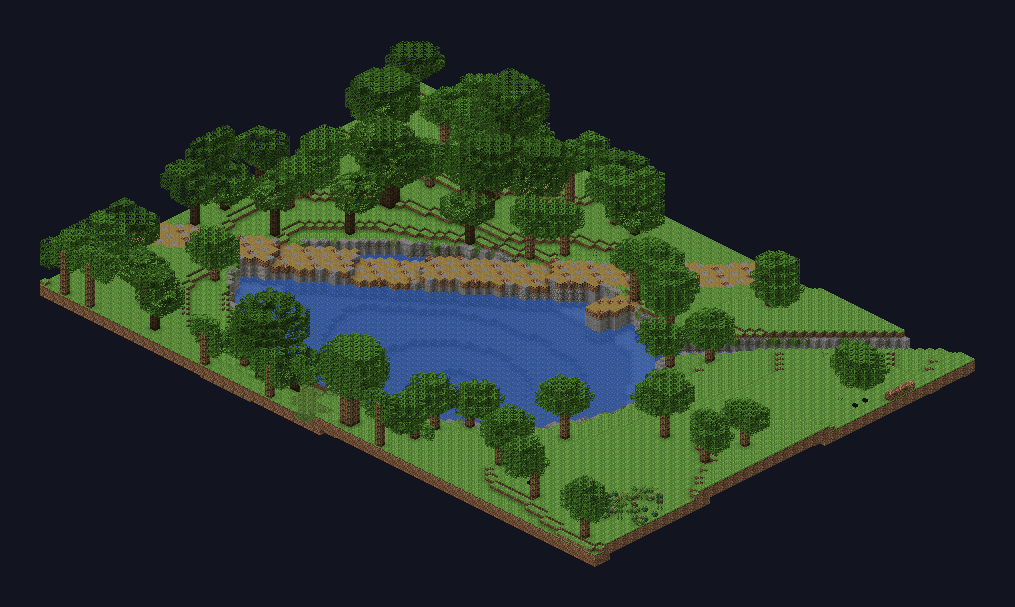
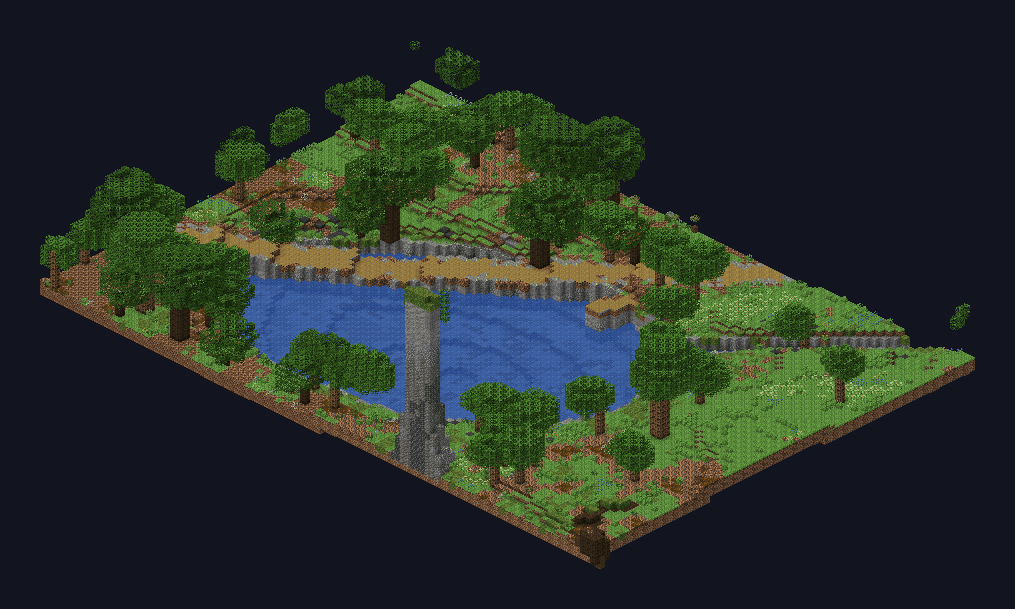
Proposals: field500 - WorldPainter-style materials (slope mixes in blobs, cliff gradients in vertical streaks, natural banks, clustered cover)

Changed region(s): [[0.0305, 0.0593, 0.9773, 0.9489], [0.9163, 0.5041, 0.9773, 0.5338]]

diff --git a/docs/proposals/world-prototype/field500/index.html b/docs/proposals/world-prototype/field500/index.html
@@ -1,0 +1,106 @@
+<title>巨樹の根の丘</title>
+<meta name="claude:viewport-fit-sides" content="cover">
+<link rel="stylesheet" href="https://fonts.googleapis.com/css2?family=M+PLUS+2:wght@400;700&family=DotGothic16&display=swap">
+<style>
+/* layout: a field journal — one large plate, tabs along the top, a short note under the plate */
+:root {
+  --bg: #e9ecdf; --panel: #f7f8f1; --ink: #1f2a1c; --muted: #5d6a57; --line: #c8cfbb; --accent: #b4462f;
+  --plate: #12141f;
+  --f-body: "M PLUS 2", "Hiragino Sans", "Noto Sans CJK JP", sans-serif;
+  --f-label: "DotGothic16", "M PLUS 2", monospace;
+}
+@media (prefers-color-scheme: dark) { :root:not([data-theme="light"]) {
+  --bg: #151a14; --panel: #1d241c; --ink: #e4ead9; --muted: #9aa78f; --line: #33402f; --accent: #e07257; color-scheme: dark } }
+:root[data-theme="dark"] {
+  --bg: #151a14; --panel: #1d241c; --ink: #e4ead9; --muted: #9aa78f; --line: #33402f; --accent: #e07257; color-scheme: dark }
+body { background: var(--bg); color: var(--ink); font-family: var(--f-body); line-height: 1.7;
+  padding-left: max(16px, env(safe-area-inset-left, 0px)); padding-right: max(16px, env(safe-area-inset-right, 0px)); padding-block: 20px 40px }
+.wrap { max-width: 1180px; margin: 0 auto; display: grid; gap: 14px }
+header h1 { font-family: var(--f-label); font-weight: 400; font-size: 1.9rem; margin: 0; letter-spacing: .04em; text-wrap: balance }
+header p { margin: 2px 0 0; color: var(--muted); font-size: .92rem }
+.tabs { display: flex; flex-wrap: wrap; gap: 6px }
+.tabs button { font: inherit; font-size: .9rem; padding: 6px 14px; border: 1px solid var(--line); background: var(--panel); color: var(--ink);
+  border-radius: 6px; cursor: pointer }
+.tabs button[aria-selected="true"] { background: var(--ink); color: var(--bg); border-color: var(--ink) }
+.tabs button:focus-visible { outline: 2px solid var(--accent); outline-offset: 2px }
+.plate { background: var(--plate); border-radius: 8px; overflow: hidden }
+.plate img { display: block; width: 100%; height: auto }
+.note { display: grid; grid-template-columns: minmax(0, 1fr) auto; gap: 12px; align-items: start; background: var(--panel);
+  border: 1px solid var(--line); border-radius: 8px; padding: 12px 16px }
+.note h2 { margin: 0; font-size: 1.05rem }
+.note p { margin: 4px 0 0; color: var(--muted); font-size: .92rem; max-width: 65ch }
+.lv { font-family: var(--f-label); font-size: .95rem; color: var(--accent); white-space: nowrap; padding-top: 2px }
+.rules { background: var(--panel); border: 1px solid var(--line); border-radius: 8px; padding: 14px 18px }
+.rules h2 { margin: 0 0 6px; font-size: 1.05rem }
+.rules ol { margin: 0; padding-left: 1.3em; display: grid; gap: 4px; font-size: .92rem }
+.rules .src { margin-top: 10px; font-size: .8rem; color: var(--muted); display: flex; flex-wrap: wrap; gap: 4px 12px }
+.rules a { color: var(--ink) }
+small.cap { color: var(--muted); font-size: .8rem }
+</style>
+<div class="wrap">
+  <header>
+    <h1>巨樹の根の丘</h1>
+    <p>500×500 ブロックのフィールド1枚。高さの違う3段を道でつなぎ、ガウル平原風の岩の柱と桜のボスがある。今回は WorldPainter の地形の作り方を調べて、地面と崖のブロックを作り直した。</p>
+  </header>
+  <div class="tabs" role="tablist" id="tabs"></div>
+  <div class="plate"><img id="plate" alt=""></div>
+  <div class="note"><div><h2 id="n-title"></h2><p id="n-text"></p></div><div class="lv" id="n-lv"></div></div>
+  <section class="rules">
+    <h2>WorldPainter の作り方から取った決まり</h2>
+    <ol>
+      <li>地面の材料は傾きで決める。平地は草の混ぜ物、25〜45°は「丘」の混ぜ物（草・粗い土・石・安山岩・砂利＝3:3:3:2:1）、45°より急なら「岩」の混ぜ物（石65・安山岩10・丸石5.5・灰色の粉5・砂利4・土2・鉱石と苔石を少し）。</li>
+      <li>混ぜ物は1ブロックずつばらまかず、かたまり（ブロブ）で置く。境目だけ少しまだらにして、2つの地面がなじむようにする。</li>
+      <li>森の床は別の混ぜ物（ポドゾル・粗い土・草・苔）。水のそばは苔・草・泥。</li>
+      <li>崖は、上と外側に明るい石（石・安山岩）、真ん中につなぎの石（砂利・凝灰岩・丸石）、下とくぼみに暗い石（深層岩）。横じまにせず、縦の不規則なすじにする。苔は上のふちから水が伝うように縦に垂らす。</li>
+      <li>水辺は草を水ぎわまで残し、砂の帯を作らない。底は砂利と粘土。道は中央が踏み固めた土、縁ほど砂利と粗い土。</li>
+      <li>草花は全体に薄くまかず、草はかたまり、花は1種類ずつの群れ、森の中は羊歯。丘には苔むした小石を少し。</li>
+    </ol>
+    <div class="src">
+      <a href="https://polystruct.github.io/creative/worldpainter/custom.html" target="_blank" rel="noopener">WorldPainter カスタム地形の例（配合）</a>
+      <a href="https://www.worldpainter.net/trac/wiki/Manual/Paints/Terrains" target="_blank" rel="noopener">WorldPainter 公式マニュアル（地形）</a>
+      <a href="https://hypixel.net/threads/guide-advanced-terraforming-part-2-world-painter.137630/" target="_blank" rel="noopener">Hypixel 上級地形ガイド（傾き55°で石）</a>
+      <a href="https://minecraftgradient.blog/deepslate-to-stone-gradient/" target="_blank" rel="noopener">崖のグラデーション（縦のすじ）</a>
+      <a href="https://blockblend.app/guides/minecraft-terrain-gradients" target="_blank" rel="noopener">地形のグラデーション配合</a>
+      <a href="https://www.minecraft.net/en-us/article/tutorial--tips-for-landscaping-and-terraforming" target="_blank" rel="noopener">minecraft.net 造園と地形のコツ（水辺）</a>
+    </div>
+  </section>
+  <small class="cap">ゲームの外で、本物のブロックの絵を使って描いた試作。モブは形と色だけの仮置き。</small>
+</div>
+<script>
+const SHOTS = [
+  { id: "scarp", tab: "崖の肌（新）", img: "f5-scarp.png", title: "崖の肌：下が暗く上が明るい、縦のすじ", text: "段の崖。下とくぼみは深層岩・凝灰岩、上は安山岩・石。縦にすじが入り、横じまにならない。ふちから苔と草が少し垂れる。足元の草地は草のかたまりと、1種類ずつの花の群れ。", lv: "新" },
+  { id: "ramp", tab: "崖と坂（新）", img: "f5-ramp.png", title: "段と坂（新しい材料）", text: "同じ場所の前の版は次のタブ。草地に草のかたまりと花の群れ、道は中央が土で縁が砂利と粗い土、崖は暗い下から明るい上へ。", lv: "新" },
+  { id: "ramp0", tab: "崖と坂（前）", img: "before-ramp.png", title: "段と坂（前の版）", text: "前の版。地面は草ばかりで、崖は石の横じま。", lv: "前" },
+  { id: "gap", tab: "中段（新）", img: "f5-gap.png", title: "中段の一角（新しい材料）", text: "草地は草・粗い土・苔のかたまり、森の近くはポドゾルと羊歯。", lv: "新" },
+  { id: "gap0", tab: "中段（前）", img: "before-gap.png", title: "中段の一角（前の版）", text: "前の版。", lv: "前" },
+  { id: "pond", tab: "池（新）", img: "f5-pond.png", title: "池（新しい材料）", text: "水ぎわは苔・草・泥、底は砂利と粘土。砂の帯をやめた。", lv: "新" },
+  { id: "pond0", tab: "池（前）", img: "before-pond.png", title: "池（前の版）", text: "前の版。水ぎわに砂の帯がある。", lv: "前" },
+  { id: "mesa", tab: "柱の肌（新）", img: "f5-mesa.png", title: "岩の柱の肌（新しい材料）", text: "柱のくびれは影になるので暗い石、上の張り出しは明るい石。苔はふちから縦に垂れる。", lv: "新" },
+  { id: "spring1", tab: "柱の泉（新）", img: "f5-pillar1.png", title: "柱の泉と滝（新しい材料）", text: "前の版は次のタブ。", lv: "新" },
+  { id: "spring0", tab: "柱の泉（前）", img: "before-pillar1.png", title: "柱の泉と滝（前の版）", text: "前の版。", lv: "前" },
+  { id: "all", tab: "全体", img: "field500-guide.png", title: "全体の案内図", text: "南の低地・中央の中段・北の高台の3段。岩の柱を岩の橋で渡るほど桜が増え、いちばん高い柱が桜のボス。", lv: "500×500" },
+  { id: "pillars", tab: "岩の柱と桜", img: "f5-pillars.png", title: "岩の柱と桜のグラデーション", text: "高台から岩の橋で柱を渡っていくほど桜と鳥居が増える。", lv: "道" },
+  { id: "boss", tab: "ワールドボス（桜）", img: "f5-sakura.png", title: "ワールドボス：桜の闘技場", text: "いちばん高い柱の上。鳥居のトンネルと石灯籠の参道、花びらの床、奥に大きなしだれ桜。", lv: "ボス" },
+  { id: "check", tab: "検証", img: "field500-check.png", title: "検証：歩いて行けるか、空白がないか", text: "平地の99.6%と、柱の上と橋の全部（16777マス）に歩いて行ける。", lv: "検証" },
+];
+const tabs = document.getElementById("tabs");
+function show(id) {
+  const s = SHOTS.find(x => x.id === id) || SHOTS[0];
+  document.getElementById("plate").src = s.img;
+  document.getElementById("plate").alt = s.title;
+  document.getElementById("n-title").textContent = s.title;
+  document.getElementById("n-text").textContent = s.text;
+  document.getElementById("n-lv").textContent = s.lv;
+  for (const b of tabs.children) b.setAttribute("aria-selected", String(b.dataset.id === s.id));
+  try { localStorage.setItem("f5tab", s.id) } catch (e) {}
+}
+for (const s of SHOTS) {
+  const b = document.createElement("button");
+  b.id = "tab-" + s.id; b.dataset.id = s.id; b.role = "tab"; b.textContent = s.tab;
+  b.addEventListener("click", () => show(s.id));
+  tabs.appendChild(b);
+}
+let start = (location.hash || "").slice(1);
+if (!start) { try { start = localStorage.getItem("f5tab") || "" } catch (e) {} }
+show(start || "scarp");
+</script>

diff --git a/scripts/world_prototype/field500.py b/scripts/world_prototype/field500.py
@@ -17,7 +17,8 @@ import numpy as np
 from PIL import Image
 import iso
 import greattree
-from greattree import noise3, bark
+from greattree import noise3, bark, _h
+import terrainmat as TM
 
 B = 500
 G = 70
@@ -180,39 +181,61 @@ def mark(x0, z0, x1, z1):
 
 
 patch = fbm(4, 20, .55, 11)
+import terrainmat as TM
+# context fields for the surface rules: forest-ness (where trees will stand), damp ground (near water), local face extent
+_forest = fbm(4, 6, .5, 121)
+FOREST_F = np.clip((_forest - .48) * 2 + np.clip((150 - xx) / 120, 0, 1) * .8 + np.clip((60 - zz) / 60, 0, 1) * .5, 0, 1)
+_wd = np.minimum(np.where(lake, 0, 99), st_d)
+for _ in range(1):
+    pass
+DAMP_F = np.clip(1 - (_wd - 2) / 6, 0, 1)
+pondd = np.sqrt(((xx - POND[0]) / 36) ** 2 + ((zz - POND[1]) / 24) ** 2)
+DAMP_F = np.maximum(DAMP_F, np.clip((1.25 - pondd) / .25, 0, 1))
+from numpy.lib.stride_tricks import sliding_window_view as _sw
+_pad = np.pad(hi, 4, mode="edge")
+LOCAL_MIN = _sw(_pad, (9, 9)).min(axis=(2, 3)); LOCAL_MAX = _sw(_pad, (9, 9)).max(axis=(2, 3))
+_pad1 = np.pad(H, 2, mode="edge")
+LOCAL_AVG = _sw(_pad1, (5, 5)).mean(axis=(2, 3))
 for z in range(B):
     for x in range(B):
         h = hi[z, x]
         nb = min(hi[max(0, z - 1), x], hi[min(B - 1, z + 1), x], hi[z, max(0, x - 1)], hi[z, min(B - 1, x + 1)])
         lo = h - 6 if x in (0, B - 1) or z in (0, B - 1) else min(nb, h) - 1
         face = slope[z, x] > 1.3
+        fb, ft = LOCAL_MIN[z, x], max(LOCAL_MAX[z, x], LOCAL_MIN[z, x] + 1)
+        recess = float(np.clip((LOCAL_AVG[z, x] - H[z, x]) / 3, 0, 1))
         for y in range(lo, h):
-            if face:
-                put(x, y, z, ("stone", "andesite", "stone", "tuff", "stone", "cobblestone")[(y // 2 + (x // 9)) % 6])
+            if face or h - y > 2:
+                put(x, y, z, TM.cliff_block(x, y, z, (y - fb) / (ft - fb), recess))
             else:
-                put(x, y, z, "dirt" if h - y <= 2 else "stone")
+                put(x, y, z, "coarse_dirt" if (h - y == 2 and _h(x, y, z, 5) < .3) else "dirt")
         if lake[z, x]:
-            put(x, h, z, "sand" if WL - h < 2 else "gravel")
+            put(x, h, z, TM.bed_block(x, z) if WL - h >= 1 else "grass_block_top", "grass_block_side")
             for y in range(h + 1, WL + 1): put(x, y, z, "water_still", shape="water")
             continue
         if stream[z, x]:
-            put(x, h - 1, z, "gravel"); put(x, h, z, "water_still", shape="water")
+            put(x, h - 1, z, TM.bed_block(x, z)); put(x, h, z, "water_still", shape="water")
             up = max([hi[z + dz, x + dx] for dx in (-1, 0, 1) for dz in (-1, 0, 1)
                       if 0 <= x + dx < B and 0 <= z + dz < B and stream[z + dz, x + dx]] + [h])
             for y in range(h + 1, up): put(x, y, z, "water_still")          # waterfall down the scarp
             continue
-        if road[z, x]:
-            t = (x * 7 + z * 13) % 9
-            put(x, h, z, *(("dirt_path_top", "dirt_path_side") if t < 6 else ("gravel",) if t < 8 else ("coarse_dirt",)))
+        if road[z, x]:                                                    # worn centre, gravel and coarse dirt toward the verges
+            edge = road_d[z, x] / 3.2
+            v = TM.noise3(x, 0, z, 331, 2.0) * .7 + _h(x, 1, z, 9) * .3
+            name = "dirt_path_top" if v > edge * .7 else ("gravel" if v > edge * .45 else "coarse_dirt")
+            put(x, h, z, name, TM.SIDE.get(name, name))
             continue
         if trail[z, x]:
-            put(x, h, z, *(("dirt_path_top", "dirt_path_side") if (x + z) % 4 else ("coarse_dirt",)))
+            v = TM.noise3(x, 0, z, 332, 1.6)
+            name = "dirt_path_top" if v > .35 else "coarse_dirt"
+            put(x, h, z, name, TM.SIDE.get(name, name))
             continue
-        if face:
-            put(x, h, z, R.choice(["stone", "andesite", "mossy_cobblestone", "tuff", "moss_block"]))
+        if face:                                                          # a ledge on the face: moss and grass collect on top
+            n = TM.noise3(x, h, z, 341, 2)
+            put(x, h, z, *(("moss_block",) if n > .72 else ("grass_block_top", "grass_block_side") if n > .64 else (TM.cliff_block(x, h, z, (h - fb) / (ft - fb), recess),)))
             continue
-        p = patch[z, x]
-        top = ("grass_block_top", "grass_block_side") if p > .3 else ("moss_block",) if p > .25 else ("podzol_top", "podzol_side")
+        top = TM.surface(x, z, slope[z, x], FOREST_F[z, x], DAMP_F[z, x])
+        if 0 < anyway[z, x] - 2 < 2.5 and _h(x, 3, z, 11) < .5: top = ("coarse_dirt", "coarse_dirt")     # trampled verge
         put(x, h, z, *top)
         if slope[z, x] < 1.2:  # half steps so nothing on walkable ground needs a jump
             ups = [hi[z + dz, x + dx] for dx, dz in ((1, 0), (-1, 0), (0, 1), (0, -1)) if 0 <= x + dx < B and 0 <= z + dz < B]
@@ -703,7 +726,7 @@ def mesa(cx, cz, top_y, rb, rt, seed, needle=False, sakura=0.0, clear=0.0):
                 x, z = cx + dx, cz + dz
                 if not (0 <= x < B and 0 <= z < B) or y <= at(x, z) - 1: continue
                 if needle:
-                    put(x, y, z, "moss_block" if y >= top_y - 1 else ROCK[(y // 3 + seed) % len(ROCK)])
+                    put(x, y, z, "moss_block" if y >= top_y - 1 else TM.cliff_block(x, y, z, f, .2 * (d < rr - 1)))
                 elif y == top_y:
                     put(x, y, z, "grass_block_top", "grass_block_side"); UPPER[z, x] = top_y
                 elif y >= top_y - 3 and d > rr - 1.6:
@@ -711,7 +734,9 @@ def mesa(cx, cz, top_y, rb, rt, seed, needle=False, sakura=0.0, clear=0.0):
                 else:
                     n = noise3(x, y, z, seed + 7, 2.2)
                     up_open = y > base + 2 and f > .45                          # the overhang's underside and the waist
-                    mat = "moss_block" if n > (.42 if up_open else .5) else ROCK[(y // 4 + seed) % len(ROCK)]
+                    rec = .5 if .35 < f < .75 else 0.0                               # the waist sits in shadow: darker blocks
+                    mossy = TM.moss_streak(x, y, z, top_y) or (f > .8 and n > .62)    # streaks from the lip, the overhang's belly
+                    mat = "moss_block" if mossy else TM.cliff_block(x, y, z, f, rec)
                     put(x, y, z, mat)
     for _ in range(int(rt * (10 if not needle else 2))):           # a curtain of vines and leaf drapes from the lip
         a = R.random() * math.tau
@@ -785,7 +810,7 @@ def rock_bridge(p0, p1, rise=3, width=1.6, sakura=0.0):
                     put(x, deck, z, "grass_block_top", "grass_block_side"); UPPER[z, x] = max(UPPER[z, x], deck)
                     if w.b.get((x, deck + 1, z), ("", "", ""))[1] in ("vine",): w.b.pop((x, deck + 1, z), None)
                 for y in range(int(deck - under * (1 - (d / (wid + 1.2)) ** 2)), deck):
-                    if y > at(x, z): put(x, y, z, ROCK[(y // 4) % len(ROCK)] if noise3(x, y, z, 153, 2) < .5 else "moss_block")
+                    if y > at(x, z): put(x, y, z, TM.cliff_block(x, y, z, .55 + (y - deck) / 20, .2) if noise3(x, y, z, 153, 2) < .5 else "moss_block")
                 if wid < d <= wid + 1.2 and (x, deck, z) not in w.b:
                     put(x, deck, z, "cherry_leaves" if R.random() < sakura else ("azalea_leaves" if (x + z) % 3 else "oak_leaves"))
                 if d <= wid and R.random() < sakura * .5 and (x, deck + 1, z) not in w.b: put(x, deck + 1, z, "pink_petals", shape="carpet")
@@ -985,7 +1010,7 @@ def stone_arch(p0, p1, height, r):
                     v = w.b.get((int(round(x)) + dx, int(round(y)) + dy, int(round(z)) + dz))
                     if v and v[1] in ("dark_oak_log", "mangrove_log", "stripped_dark_oak_log"):
                         p = (int(round(x)) + dx, int(round(y)) + dy, int(round(z)) + dz)
-                        mat = ROCK[(p[1] // 3) % len(ROCK)]
+                        mat = TM.cliff_block(p[0], p[1], p[2], .7, 0)
                         if noise3(*p, 161, 2.5) > .68: mat = "moss_block"
                         put(*p, mat)
     for (x, y, z) in pts:
@@ -1138,13 +1163,33 @@ for z in range(4, B - 4):
             else: oak(x, z, "oak", big=R.random() < .08)
 scatter_plants(70, 280, 70, .05, ["fern", "short_grass", "brown_mushroom", "leaf_litter"])
 scatter_plants(250, 250, 240, .006, ["poppy", "dandelion", "short_grass", "short_grass"])
+# ground cover in clumps and drifts: grass tufts where the clump noise is high, flowers in single-species drifts,
+# ferns in shade and damp ground, a few small mossy stones on the hills
+FLOWERS = ["poppy", "dandelion", "cornflower", "oxeye_daisy", "azure_bluet", "allium"]
 for z in range(2, B - 2):
     for x in range(2, B - 2):
-        if anyway[z, x] < 3 or lake[z, x] or stream[z, x] or R.random() > .34: continue
+        if anyway[z, x] < 3 or lake[z, x] or stream[z, x]: continue
         y = at(x, z) + 1
         if (x, y, z) in w.b: continue
         t2 = w.b.get((x, y - 1, z))
-        if t2 and t2[1] == "grass_block_top": put(x, y, z, "short_grass", shape="plant")
+        if not t2: continue
+        clump = noise3(x, 0, z, 401, 2.2)
+        drift = noise3(x, 0, z, 402, 7.0)
+        top = t2[1]
+        if top == "grass_block_top":
+            if drift > .72 and _h(x, 2, z, 41) < .55:
+                put(x, y, z, FLOWERS[int(noise3(x, 0, z, 403, 12) * 6) % 6], shape="plant")
+            elif clump > .52 and _h(x, 3, z, 42) < (clump - .45) * 2.2:
+                put(x, y, z, "tall_grass_top" if clump > .78 and _h(x, 4, z, 43) < .4 else "short_grass", shape="plant")
+            elif FOREST_F[z, x] > .5 and _h(x, 5, z, 44) < .08:
+                put(x, y, z, "fern", shape="plant")
+        elif top in ("podzol_top", "moss_block", "coarse_dirt"):
+            if _h(x, 6, z, 45) < (.14 if top == "podzol_top" else .08):
+                put(x, y, z, R.choice(["fern", "fern", "short_grass", "brown_mushroom", "leaf_litter"]), shape="plant" if top != "moss_block" else "plant")
+            elif top == "moss_block" and _h(x, 7, z, 46) < .25:
+                put(x, y, z, "moss_block", shape="carpet")
+        elif top in ("stone", "andesite", "gravel", "cobblestone") and _h(x, 8, z, 47) < .03:
+            put(x, y, z, "mossy_cobblestone", shape="slab")
 
 
 

diff --git a/scripts/world_prototype/terrainmat.py b/scripts/world_prototype/terrainmat.py
@@ -1,0 +1,77 @@
+"""Surface and rock materials, following what WorldPainter map makers and terraformers do.
+
+Rules (sources: WorldPainter manual / polystruct custom terrain guide / Hypixel advanced terraforming guide /
+minecraft.net landscaping tips / terrain-gradient guides):
+  1. Material follows slope. Flat: grass mixes. 25-45 deg: "hills" mix (grass, coarse dirt, stone, andesite, gravel 3:3:3:2:1).
+     Over 45 deg: "rocky" mix (stone 65, andesite 10, cobble 5.5, light-grey powder 5, gravel 4, dirt 2, a little ore and mossy cobble).
+  2. Mix in patches ("blobs"), not single-block speckle: each mix is chosen by low-frequency noise, then dithered at the edges
+     so two terrains feather into each other instead of meeting on a line.
+  3. Forest floor is its own mix: podzol, coarse dirt, grass, moss in blobs; rooted dirt at tree bases.
+  4. Cliffs: light blocks high and on the outer faces (stone, andesite), transition blocks mid-face (gravel, tuff, cobble),
+     the darkest (deepslate) low and in recesses. Irregular VERTICAL patches, never horizontal stripes. Ledges grow moss/grass.
+  5. Water edges stay natural: grass runs to the water, coarse dirt/path where it erodes, clay and gravel on the bed
+     instead of a sand stripe at the waterline. Moss and mud in damp ground.
+  6. Ground cover is clustered and low-intensity: grass tufts in clumps, flowers in single-species drifts, ferns in shade,
+     a few mossy boulders on hills.
+"""
+import math
+from greattree import noise3, _h
+
+ROCKY = [("stone", 65), ("andesite", 10), ("cobblestone", 5.5), ("light_gray_concrete_powder", 5), ("gravel", 4),
+         ("dirt", 2), ("coal_ore", .5), ("iron_ore", .5), ("mossy_cobblestone", 2)]
+HILLS = [("grass_block_top", 3), ("coarse_dirt", 3), ("stone", 3), ("andesite", 2), ("gravel", 1)]
+MEADOW = [("grass_block_top", 14), ("coarse_dirt", 1), ("moss_block", 1)]
+FOREST = [("podzol_top", 3), ("coarse_dirt", 3), ("grass_block_top", 3), ("moss_block", 2)]
+DAMP = [("moss_block", 3), ("grass_block_top", 3), ("mud", 1), ("coarse_dirt", 1)]
+BED = [("gravel", 3), ("clay", 2), ("dirt", 1), ("sand", 1)]
+SIDE = {"grass_block_top": "grass_block_side", "podzol_top": "podzol_side", "dirt_path_top": "dirt_path_side"}
+# cliff gradient, dark -> light
+CLIFF = ["deepslate", "cobbled_deepslate", "tuff", "tuff", "cobblestone", "gravel", "andesite", "andesite", "stone", "stone"]
+
+
+def pick_mix(mix, x, z, seed, blob=4.0):
+    """Choose from a weighted mix in blobs: the noise value (smooth, blob-sized) picks the material, a small per-block
+    dither feathers the borders."""
+    tot = sum(wt for _, wt in mix)
+    v = noise3(x, 0, z, seed, blob) * .85 + _h(x, 7, z, seed) * .15
+    acc = 0
+    for name, wt in mix:
+        acc += wt / tot
+        if v <= acc: return name
+    return mix[-1][0]
+
+
+def surface(x, z, slope, forest, damp, seed=301):
+    """Top block for walkable ground. slope is blocks up per block across (1.0 = 45 deg)."""
+    if slope > 1.0:
+        name = pick_mix(ROCKY, x, z, seed + 1, 2.5)
+    elif slope > .47:
+        name = pick_mix(HILLS, x, z, seed + 2, 3.0)
+    elif damp > .5:
+        name = pick_mix(DAMP, x, z, seed + 3, 3.0)
+    elif forest > .45:
+        name = pick_mix(FOREST, x, z, seed + 4, 3.5)
+    else:
+        name = pick_mix(MEADOW, x, z, seed + 5, 5.0)
+    return (name, SIDE.get(name, name))
+
+
+def cliff_block(x, y, z, frac, recess, seed=311):
+    """A block inside a rock face. frac: 0 at the foot, 1 at the top of the face. recess: 0 open face .. 1 deep crack.
+    Vertical patches come from noise stretched along y."""
+    v = noise3(x * 1.0, y * .2, z * 1.0, seed, 2.6)                     # tall streaks
+    w2 = noise3(x, y, z, seed + 1, 1.3)
+    t = .08 + frac * .78 + (v - .5) * .9 + (w2 - .5) * .22 - recess * .55
+    i = int(max(0, min(len(CLIFF) - 1, t * len(CLIFF))))
+    return CLIFF[i]
+
+
+def bed_block(x, z):
+    return pick_mix(BED, x, z, 321, 2.5)
+
+
+def moss_streak(x, y, z, top_y, seed=351):
+    """Moss runs down a face from the top in streaks (where water would trickle), thinning with depth."""
+    depth = top_y - y
+    v = noise3(x, y * .07, z, seed, 1.1)
+    return v > .6 + depth * .02

diff --git a/scripts/world_prototype/field500_render.py b/scripts/world_prototype/field500_render.py
@@ -8,7 +8,7 @@ b, hi, LABELS = pickle.load(open("field500.pkl", "rb"))
 SHOTS = {"tree": (190, 100, 290, 205, 10), "boss": (352, 52, 438, 138, 10), "fungal": (40, 190, 150, 285, 10),
          "wolf": (380, 355, 450, 430, 13), "tower": (60, 45, 112, 100, 14), "cliff": (420, 120, 499, 190, 12),
          "boulders": (235, 390, 335, 465, 10), "meadow": (270, 195, 395, 305, 8), "pond": (55, 385, 165, 460, 10),
-         "rest": (165, 235, 235, 295, 14), "ramp": (120, 300, 220, 380, 9), "falls": (230, 140, 300, 220, 11), "gap": (140, 300, 230, 360, 12), "sap": (150, 190, 186, 226, 18), "arch": (240, 200, 300, 270, 12), "pillars": (230, 150, 499, 470, 5), "pillar1": (240, 270, 345, 375, 9), "top": (320, 350, 425, 465, 9), "sakura": (315, 340, 425, 455, 10), "sando": (280, 300, 380, 400, 9), "gate": (0, 400, 80, 499, 9), "egate": (430, 180, 499, 290, 9)}
+         "rest": (165, 235, 235, 295, 14), "ramp": (120, 300, 220, 380, 9), "falls": (230, 140, 300, 220, 11), "gap": (140, 300, 230, 360, 12), "sap": (150, 190, 186, 226, 18), "arch": (240, 200, 300, 270, 12), "pillars": (230, 150, 499, 470, 5), "pillar1": (240, 270, 345, 375, 9), "top": (320, 350, 425, 465, 9), "scarp": (380, 150, 430, 200, 16), "mesa": (265, 285, 330, 350, 14), "sakura": (315, 340, 425, 455, 10), "sando": (280, 300, 380, 400, 9), "gate": (0, 400, 80, 499, 9), "egate": (430, 180, 499, 290, 9)}
 
 
 def render(sub, W):

diff --git a/scripts/world_prototype/iso.py b/scripts/world_prototype/iso.py
@@ -5,7 +5,7 @@ import numpy as np
 
 TEX = Path(__file__).parent / "tex"
 TINT = {"grass_block_top": (124, 189, 80), "oak_leaves": (89, 150, 52), "spruce_leaves": (97, 140, 86),
-        "birch_leaves": (128, 167, 85), "pink_petals_stem": (255,255,255), "dark_oak_leaves": (70, 118, 40), "fern": (100, 160, 70), "vine": (80, 140, 50), "lily_pad": (60, 150, 60), "vine": (80, 140, 50), "jungle_leaves": (70, 160, 40), "moss_carpet": (255, 255, 255),
+        "birch_leaves": (128, 167, 85), "tall_grass_top": (124, 189, 80), "tall_grass_bottom": (124, 189, 80), "short_grass": (124, 189, 80), "large_fern_top": (100, 160, 70), "pink_petals_stem": (255,255,255), "dark_oak_leaves": (70, 118, 40), "fern": (100, 160, 70), "vine": (80, 140, 50), "lily_pad": (60, 150, 60), "vine": (80, 140, 50), "jungle_leaves": (70, 160, 40), "moss_carpet": (255, 255, 255),
         "water_still": (63, 118, 228), "vine": (89, 150, 52), "short_grass": (124, 189, 80)}
 _cache = {}
 
